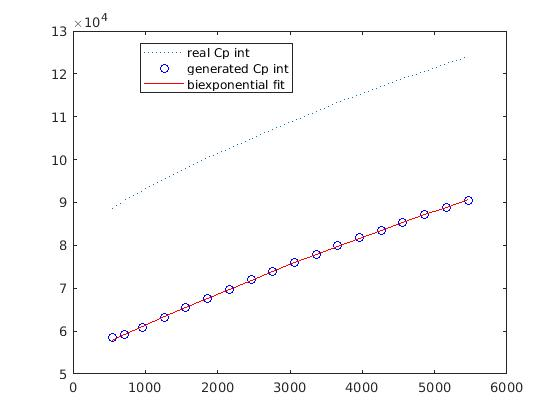
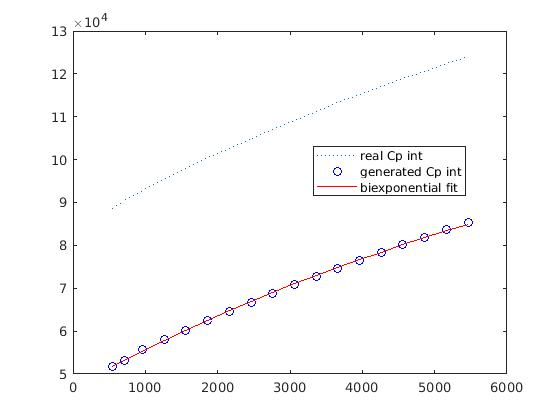
Integrating with startFrame again, and implemented first trial of AUC

diff --git a/IterativeAlgo/nihms.m b/IterativeAlgo/nihms.m
@@ -1,23 +1,20 @@
-clear variables;
-format short g;
-format compact;
+function Vt = nihms(TACpath, CpPath, showGraphs, showText)
+%NIHMS implements the method described in the NIHMS paper
+%
 
-ideal = 0;
 regions = [3 4 7 8 9 10];
 
 startingFrame = 11;
-lastFrame = 28;
-%Tac simulated from Pablo model
-fullTAC = dlmread('Data/TACs/pabloModel_0vb/0noise/fullTAC0sigma.tac', '\t', 1, 0);
+fullTAC = dlmread(TACpath, '\t', 1, 0);
 startTimes = fullTAC(:, 1);
 endTimes = fullTAC(:, 2);
 TAC = fullTAC(:, regions); %the 6 brain regions
-TACint = cumtrapz(endTimes, TAC);
+TACint = cumtrapz(startTimes, TAC);
 TAC = TAC(startingFrame:end, :);
 TACint = TACint(startingFrame:end, :);
 
-sourceCp = dlmread('Data/Cps/pabloModel/pabloModel_0sigma.smpl', '\t', 1, 0);
-bloodDrawFrame = 20; % 15th frame
+sourceCp = dlmread(CpPath, '\t', 1, 0);
+bloodDrawFrame = 20; % 20th frame
 startBlood = startTimes(bloodDrawFrame);
 endBlood = endTimes(bloodDrawFrame);
 bloodDrawTime = (startBlood  + endBlood) / 2;
@@ -25,7 +22,11 @@ singleBloodDraw = trapz(sourceCp(startBlood:endBlood, 2)) / ...
     (endBlood - startBlood);
 bloodDrawErrFactor = 1e6;
 
-ISAresult = ISA(TAC, TACint);
+%CALCULATING AUC!!!
+earlyIndices = sourceCp(:, 1) < startTimes(startFrame);
+auc = trapz(sourceCp(earlyIndices, 1), sourceCp(earlyIndices, 2));
+
+ISAresult = ISA(TAC, TACint) + auc;
 
 %Adjust for single blood draw
 slope = (ISAresult(bloodDrawFrame - startingFrame + 1) - ...
@@ -34,36 +35,41 @@ ISAresult = ISAresult * singleBloodDraw / slope;
 
 iterResult = IterativeAlgorithm(TAC, TACint, ISAresult);
 
-%Fit curve with biexponential model
-times = (startTimes(startingFrame:end) + endTimes(startingFrame:end)) / 2;
-
-[results, error] = fit2E(iterResult, times, singleBloodDraw, bloodDrawTime, ...
-    bloodDrawErrFactor);
-
-%%% Display data...
-startTime = fullTAC(startingFrame, 1);
-% sourceCp = sourceCp(sourceCp(:, 1) > startTime, :);
-sourceCpInt = cumtrapz(sourceCp(:, 1), sourceCp(:, 2));
-% Where to start intCp calculation?
-
-CpIntAtTimes = interp1(sourceCp(:, 1), sourceCpInt, times);
-
 Vt = calcVt(TACint, TAC, iterResult);
+% Vt = FIELDS_lam_logan_plasma(TACPath, regions - 2, CpPath, CpPath, 0, 0, 0, CpPath, 0);
 
-figure;
-plot(times, CpIntAtTimes, ':', times, ISAresult, 'o-', ...
-    times, iterResult, 'o-', times, model2E(results, times), 'o--');
-legend('real Cp result', 'ISA result', 'It Alg result', 'biexponential model');
+if showGraphs
+    %Fit curve with biexponential model
+    times = (startTimes(startingFrame:end) + endTimes(startingFrame:end)) / 2;
 
-disp(['variables in model ' num2str(1) ':']);
-disp(results(:, 1)');
-disp(['Error in model' num2str(1) ' = ' num2str(error)]);
-disp('Vt = ');
-disp(Vt);
+    [results, error] = fit2E(iterResult, times, singleBloodDraw, bloodDrawTime, ...
+        bloodDrawErrFactor);
 
-%combined graph
-figure;
-plot(times, CpIntAtTimes, ':',times, iterResult, 'bo', times, model2E(results, times), 'r-');
-legend('real Cp int', 'generated Cp int', 'biexponential fit');
+    
+    %%% Display data...
+    % sourceCp = sourceCp(sourceCp(:, 1) > startTime, :);
+    sourceCpInt = cumtrapz(sourceCp(:, 1), sourceCp(:, 2));
+    % Where to start intCp calculation?
 
-uisave;
+    CpIntAtTimes = interp1(sourceCp(:, 1), sourceCpInt, times);
+    
+    figure;
+    plot(times, CpIntAtTimes, ':', times, ISAresult, 'o-', ...
+        times, iterResult, 'o-', times, model2E(results, times), 'o--');
+    legend('real Cp result', 'ISA result', 'It Alg result', 'biexponential model');
+    
+    %combined graph
+    figure;
+    plot(times, CpIntAtTimes, ':',times, iterResult, 'bo', times, model2E(results, times), 'r-');
+    legend('real Cp int', 'generated Cp int', 'biexponential fit');
+end
+
+if showText
+    disp(['variables in model ' num2str(1) ':']);
+    disp(results(:, 1)');
+    disp(['Error in model' num2str(1) ' = ' num2str(error)]);
+    disp('Vt = ');
+    disp(Vt);
+end
+
+end
